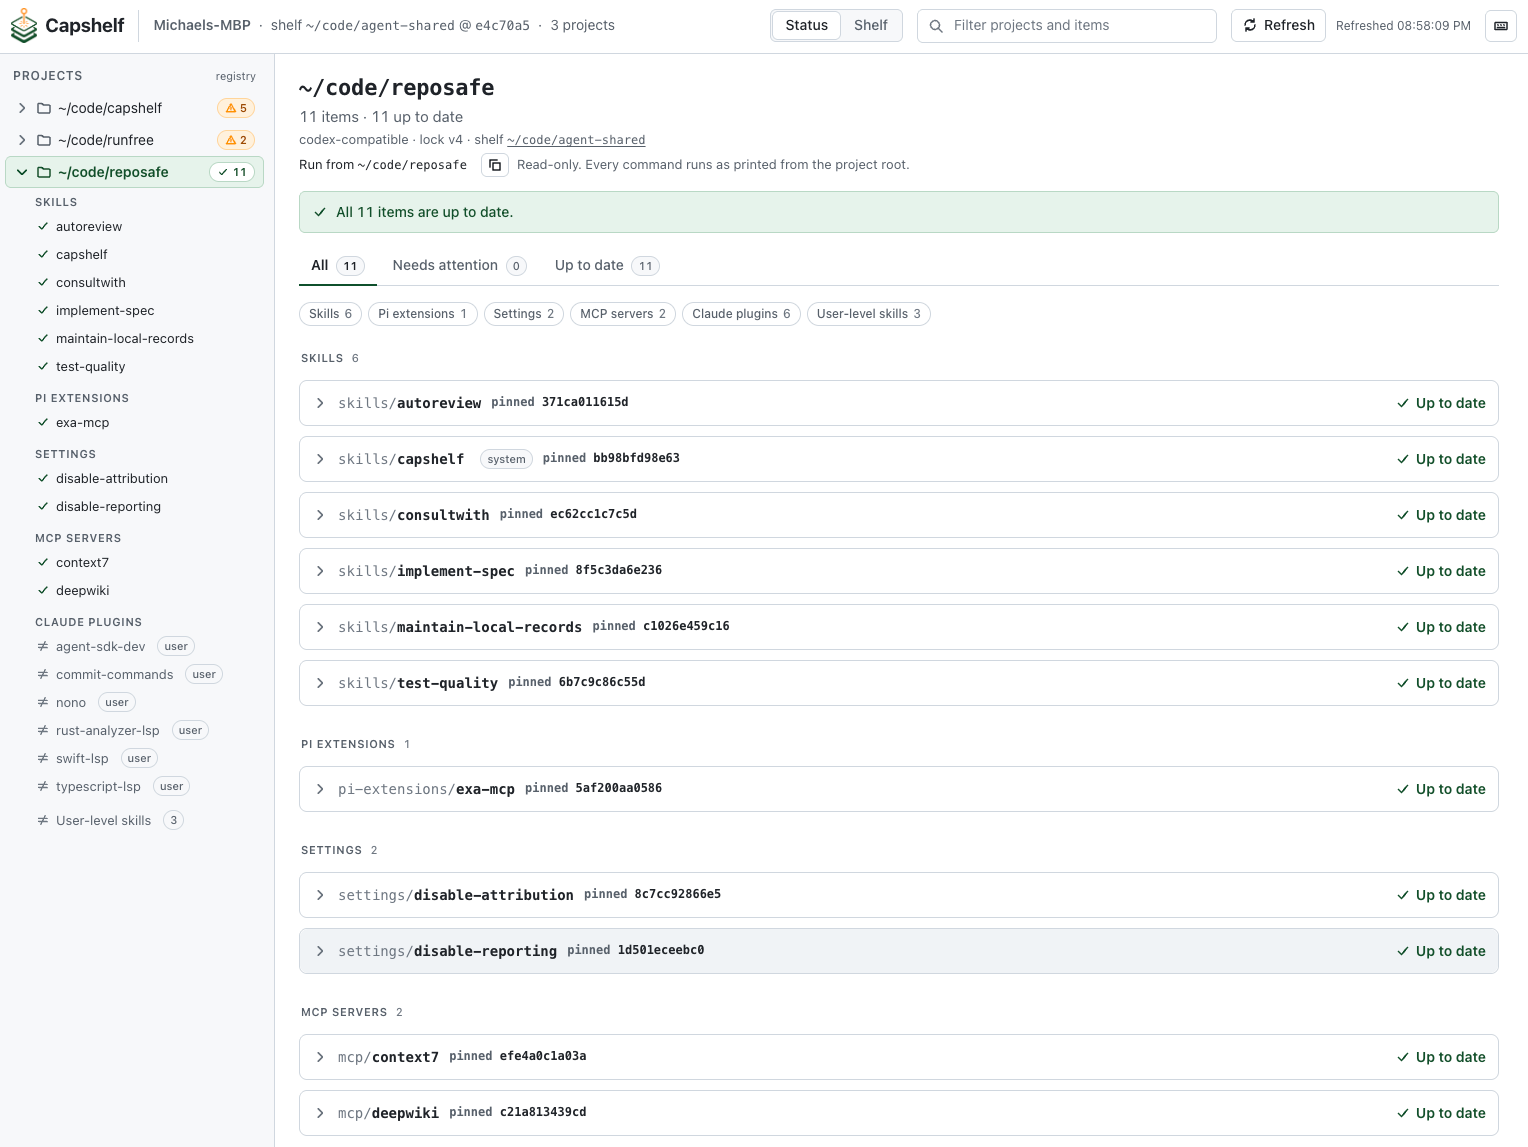
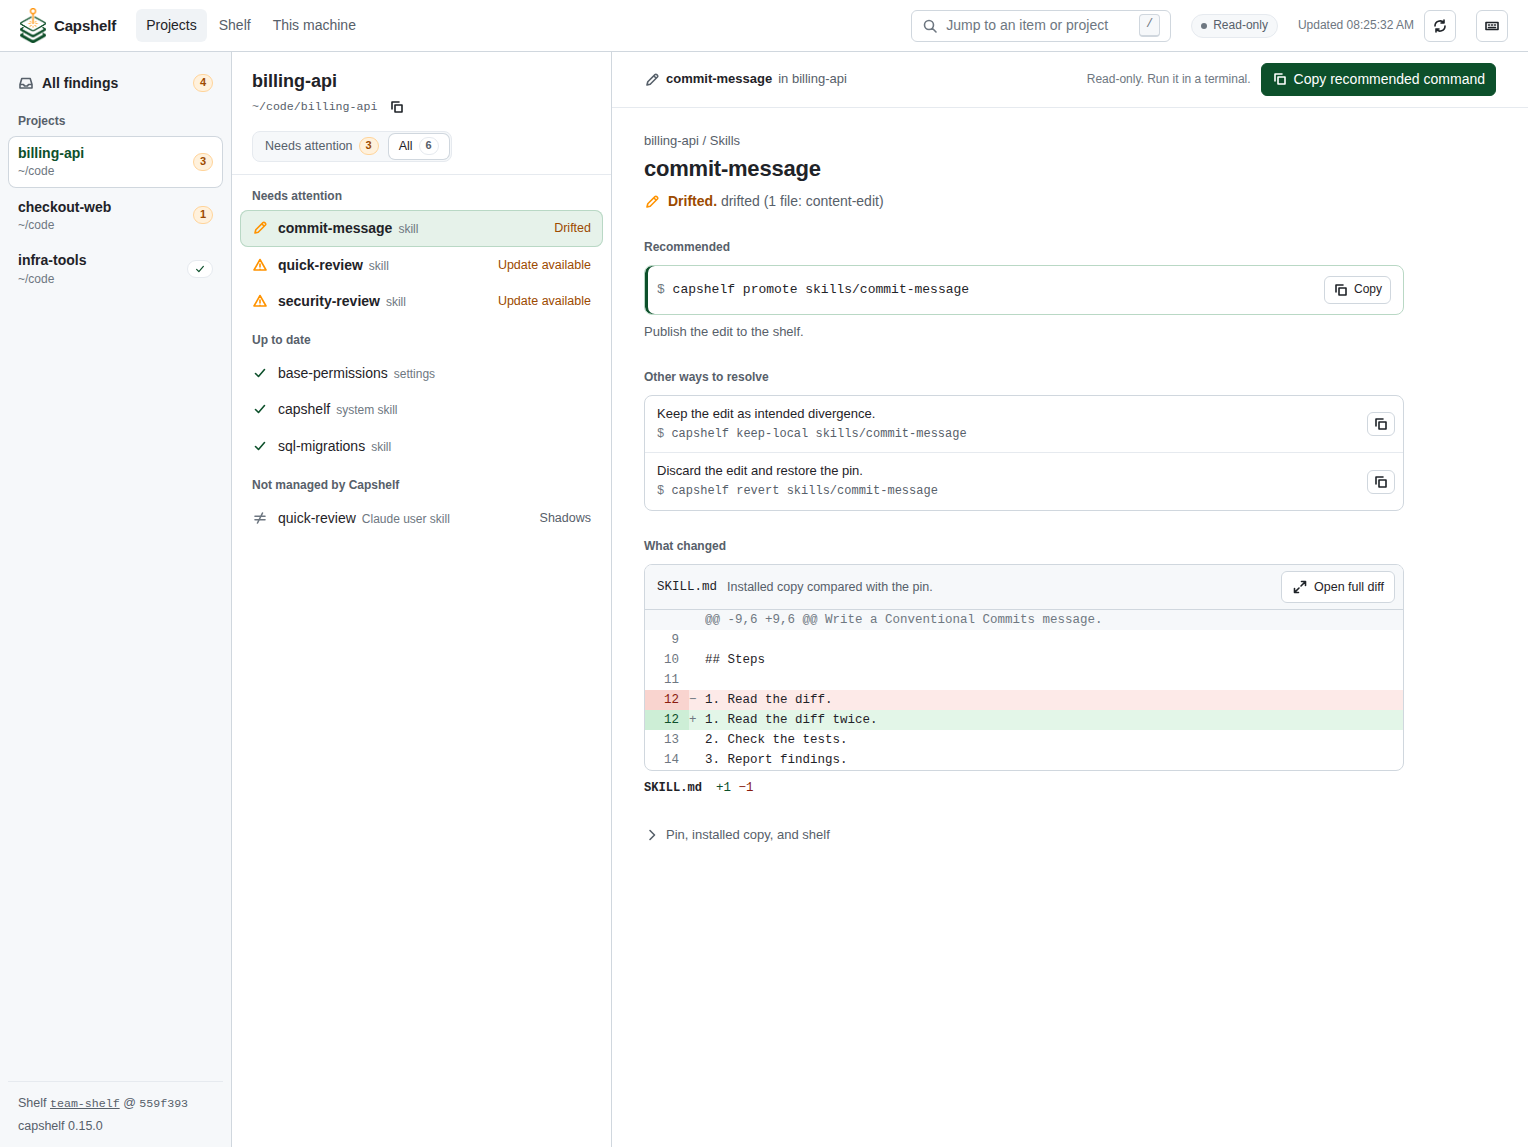
docs(ui): describe the three-pane dashboard
docs/cli.md: rewrote "What the dashboard shows" for the new layout: the
three views, the rail, the list grouped by state, the item detail, All
findings, Jump, the shelf views Items, Rollouts, and Coverage, This
machine, and the stacked layout under 800 pixels.

docs/architecture.md: the client groups a project's rows by state, not
by kind. Added the views that combine responses the client already has,
the usage join behind Rollouts and Coverage, and why the route shapes
live in src/ui/shared/route.ts.

README.md: replaced the screenshot with the new layout, captured from a
demo machine, and rewrote its alt text.

Two UI fixes from the final pass. The recommended command lost its left
stripe, which the Impeccable detector flags as a side-tab accent. The
diff summary lists files only when the preview does not already show
the one changed file.

Plan phase 4 of 4, documents part.

diff --git a/src/ui/client/DiffView.tsx b/src/ui/client/DiffView.tsx
@@ -341,7 +341,11 @@ function DiffSummary({
       {ready.length > 0 && paths.length === 0 ? (
         <p class="diff-status muted">No content differences.</p>
       ) : null}
-      {paths.length > 0 ? (
+      {/* One text file in one comparison is the preview itself; the list
+          adds nothing until a second file, a second comparison, or a file
+          with no preview, such as a binary one. */}
+      {paths.length > 1 ||
+      (paths.length > 0 && (ready.length > 1 || preview === null)) ? (
         <ul class="diff-summary-files">
           {shownPaths.map((path) => (
             <li key={path} class="diff-summary-file">

diff --git a/src/ui/client/frame.css b/src/ui/client/frame.css
@@ -630,7 +630,6 @@
   padding: 10px 12px;
   border: 1px solid var(--green-line);
   border-radius: var(--radius-lg);
-  box-shadow: inset 3px 0 0 var(--green);
 }
 
 .recommended .command-text {
@@ -958,7 +957,6 @@
 
 .recommended.is-plain {
   border-color: var(--line);
-  box-shadow: none;
 }
 
 .table {

diff --git a/docs/cli.md b/docs/cli.md
@@ -1838,49 +1838,88 @@ manifest stays in the list and is marked missing.
 
 ### What the dashboard shows
 
-- Left: every registered project, sorted by the number of items that need
-  attention, then by path. The selected project lists its items under one
-  heading per kind, with dimmed rows for skills.sh skills and for every
-  Claude plugin that loads in it, marked with its scope when it comes from
-  the home directory or from managed settings, and one row that jumps to
-  the project's user-level skills.
-- Center: the selected project's items as panels, in one group per kind. A
-  kind with an item that needs attention comes first. Kinds with the same
-  count follow the order `ls` prints. A panel opens in place to the commands
-  that resolve it, each with a copy button, then its facts and a summary of
-  its diff: each changed file with its added and removed line counts. The
-  Open diff button shows the full diff in a dialog at the width of the
-  window, side by side or unified. Three-way has no unified form. The header
-  carries the `cd` command for the project with a copy button. Filter tabs
-  select all items, items that need attention, or items that are up to date.
-  A chip row under the tabs selects one kind. The tabs then count that kind
-  only, and each chip counts the items the active tab shows. A chip with no
-  such item is disabled. A second click on the active chip clears it.
-- External rows: everything a harness loads in this project that Capshelf
-  does not manage appears as a read-only row in the same groups, with an
-  "External" badge, no pin, no commands, and no diff. skills.sh skills sit
-  under Skills. Claude plugins from every settings scope form a "Claude
-  plugins" group. User-level skills from the home directory form a
-  "User-level skills" group, since every harness loads them in every
-  project. A user-level Claude skill with a managed skill's name says
-  `shadows` and links to that item. A Codex one says `same name as`, because
-  Codex offers both. External rows count under the All tab only.
-- Shadows: an item that is up to date but hidden from a harness carries the
-  warning as its badge, such as "Shadowed by a personal Claude skill" or
-  "Shadowed by a Pi project skill", in the tree and in the panel. The
-  warning's sentence and path are in the panel facts.
-- Machine: the host name in the top bar opens "This machine", the canonical
-  description of the home directory: each user-level skill with the projects
-  where it shadows or shares a name with a managed skill, and each user or
-  managed Claude plugin. The view is built from the project statuses the
-  dashboard has already loaded and needs no other request.
-- Shelf: every item and bundle in the data repo, in one section per kind,
-  bundles first, with the picker's search. The same chip row selects one
-  section. A search ranks across every shown section. Until an item is
-  selected, the reader shows the shelf's head, branch, bound projects, and
-  recent commits. The shelf name in the top bar and in a project's header
-  opens this view. After a click, the reader shows the item's files and the
-  projects that hold it.
+The top bar has three views: Projects, Shelf, and This machine. It also has
+Jump, a Read-only badge, the time of the last refresh, and a refresh
+button. Each view has the same three panes: a rail on the left, a list in
+the middle, and the selected entry on the right. Each pane scrolls on its
+own.
+
+**Projects.** The rail starts with All findings. Below it, every registered
+project is listed by its folder name, with the parent folder under the
+name. The project with the most items that need attention comes first, then
+the others by path. A count shows how many items need attention. A
+registered path with no manifest stays in the rail and is marked missing.
+
+- The list shows the selected project's path, a copy button for its `cd`
+  command, and two filters: Needs attention and All. Items are grouped by
+  state: Needs attention, then Kept local, then Up to date. Each row shows
+  the item's name, its kind, and its state.
+- Under All, a last group lists what a harness loads here that Capshelf
+  does not manage. These are skills.sh skills, Claude plugins from every
+  settings scope, and user-level skills from the home folder. These rows have no
+  pin, no command, and no diff. The detail says who manages the entry. A
+  user-level Claude skill with a managed skill's name says that it shadows
+  that item, with a link. A Codex one says that it has the same name,
+  because Codex offers both copies.
+- The detail of an item starts with a bar that holds the item's name and
+  a button. The button copies the recommended command. The `c` key does
+  the same. Below the bar are the state and the CLI's sentence for it, the
+  recommended command, and the other ways to resolve the state. Each
+  command has a copy button.
+- What changed shows the first changed lines of the diff. Open full diff
+  shows every line in a dialog at the width of the window, side by side or
+  unified. Three-way has no unified form.
+- The pin, the installed copy, the shelf version, and the other facts are
+  behind a disclosure for an item that needs attention. They show at once
+  for an item that is up to date.
+- An item that is up to date but hidden from a harness needs attention. Its
+  state names the warning, such as "Shadowed by a personal Claude skill".
+  The warning's sentence and path are in the facts.
+- With no item selected, the detail shows the project. It says whether
+  anything needs attention. It shows the path, the shelf, where skills go,
+  the lock version, the notices, and the commands to start with.
+
+**All findings.** Every item that needs attention on this machine, in one
+list grouped by project. The project with the most findings comes first.
+The first finding opens. A note names each shelf item that is behind the
+shelf in more than one project. Each project still takes the update on its
+own.
+
+**Jump.** The `/` key or the field in the top bar opens Jump. It ranks
+findings, projects, items, shelf items, and user-level skills with the
+picker's search. Enter opens the row. Ctrl+Enter copies the recommended
+command of a finding. Jump reads each shelf the first time it opens.
+
+**Shelf.** The rail picks the shelf and one of three views. It also lists
+the recent commits.
+
+- Items lists every item and bundle in the data repo, bundles first, then
+  one group per kind, with the picker's search. Until an item is selected,
+  the detail shows the shelf's head, branch, origin, bound projects, and
+  recent commits. An item's detail shows each project that holds it, with
+  the pin and the project's state, then the add command, the metadata, and
+  the files.
+- Rollouts lists each shelf item that some bound projects have not taken.
+  The detail shows the state of every project that holds it. It gives one
+  update command, with the project's `cd`, for each project that has no
+  local edit. A project with a local edit links to its own detail, where
+  the edit is merged or overwritten on its own.
+- Coverage is a table of shelf items by bound projects. Each cell shows the
+  project's state with an icon and a word, or a dash when the project does
+  not have the item. A row is marked when no project uses the item.
+
+The state of a project in Rollouts and Coverage is the state of the
+project's own status row. While a project is still loading, the view shows
+whether the pin names the item's latest shelf commit.
+
+**This machine.** User-level skills and user or managed Claude plugins,
+with the selected entry on the right. A skill's detail lists the projects
+where it shadows or shares a name with a managed skill. The view is built
+from the project statuses that the dashboard has already loaded and needs
+no other request.
+
+Below 800 pixels, the panes stack. A select replaces the rail, and an
+entry opens on its own page with a link back to the list.
 
 An item needs attention when `status --strict` would fail on it. Requirement
 freshness and target coverage gaps are shown as notes and are not counted.

diff --git a/docs/architecture.md b/docs/architecture.md
@@ -1031,13 +1031,22 @@ second implementation. The command starts a `Bun.serve` server on 127.0.0.1
 browser is the row `status --json` prints. The server adds display labels
 (`src/ui/shared/state-label.ts`) and the commands a state can be resolved
 with (`src/status-actions.ts`). It computes no new fact and writes no file.
-The client groups rows by kind (`src/ui/shared/kind-label.ts`). That file
-repeats the order of `ITEM_KINDS` in `src/master.ts`, because the browser
-bundle cannot import that module. A unit test holds the two lists equal.
-External state travels in the same status response: skills.sh skills,
-Claude plugins, and user-level skills become read-only rows in the project
-view, and `#/machine` aggregates the user-level inventory across the
-statuses already loaded, so no route exists for it.
+The client groups a project's rows by state and names their kind with
+`src/ui/shared/kind-label.ts`. That file repeats the order of `ITEM_KINDS`
+in `src/master.ts`, because the browser bundle cannot import that module. A
+unit test holds the two lists equal. External state travels in the same
+status response. skills.sh skills, Claude plugins, and user-level skills
+become read-only rows in the project view.
+
+Some views combine responses the client already has. They are pure
+functions in `src/ui/shared/view-model.ts`, each with a unit test. All
+findings (`#/findings`) and This machine (`#/machine`) read the project
+statuses already loaded, so neither has an API route. Rollouts and Coverage
+in the shelf view join the shelf's per-project usage with each project's
+status row. The status row decides the state, because the usage only says
+whether a pin names the item's latest shelf commit. Route shapes live in
+`src/ui/shared/route.ts`, apart from the Preact hook, so tests import them
+without the DOM types.
 
 Projects come from a registry, `$XDG_CONFIG_HOME/capshelf/projects.json`
 (`src/project-registry.ts`), because no project discovery exists on the

diff --git a/README.md b/README.md
@@ -580,7 +580,7 @@ missing, the diff behind each state, and the command to run. See
 
 <p align="center">
   <img src="docs/screenshots/capshelf_ui.png" width="900"
-    alt="The capshelf ui dashboard. The left column lists three registered projects and the selected project's skills, Pi extensions, settings, MCP servers, and Claude plugins. The main panel reports that all 11 items are up to date and lists each item with its pinned digest." />
+    alt="The capshelf ui dashboard in three panes. The left rail lists All findings and three projects with their attention counts. The middle list shows the billing-api project, with three items that need attention above three that are up to date. The right pane shows the drifted commit-message skill: the recommended command, capshelf promote skills/commit-message, two other ways to resolve it, and the first changed lines of its diff." />
 </p>
 
 ### Mental model
